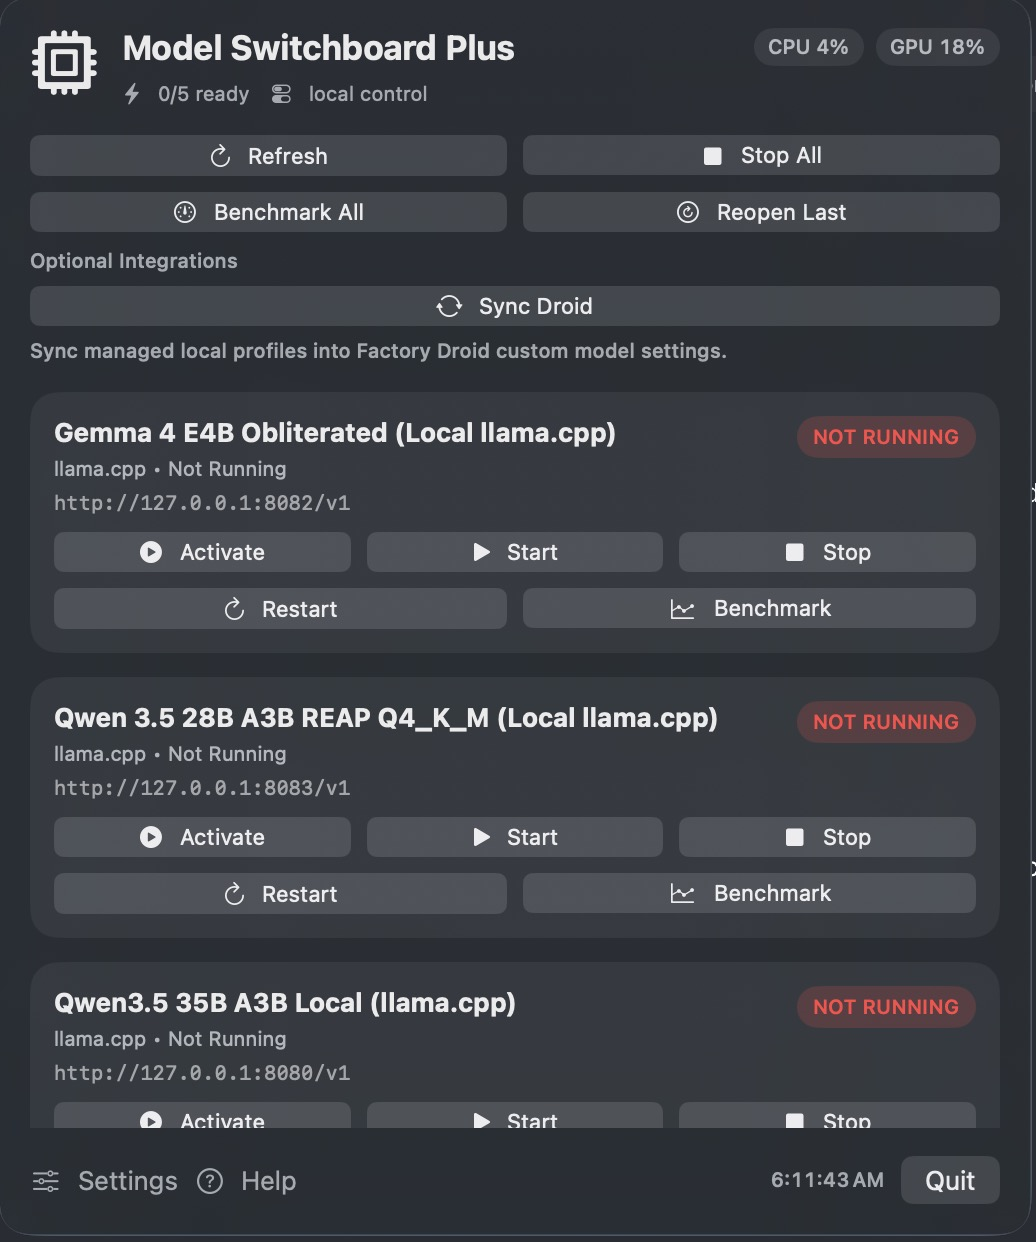
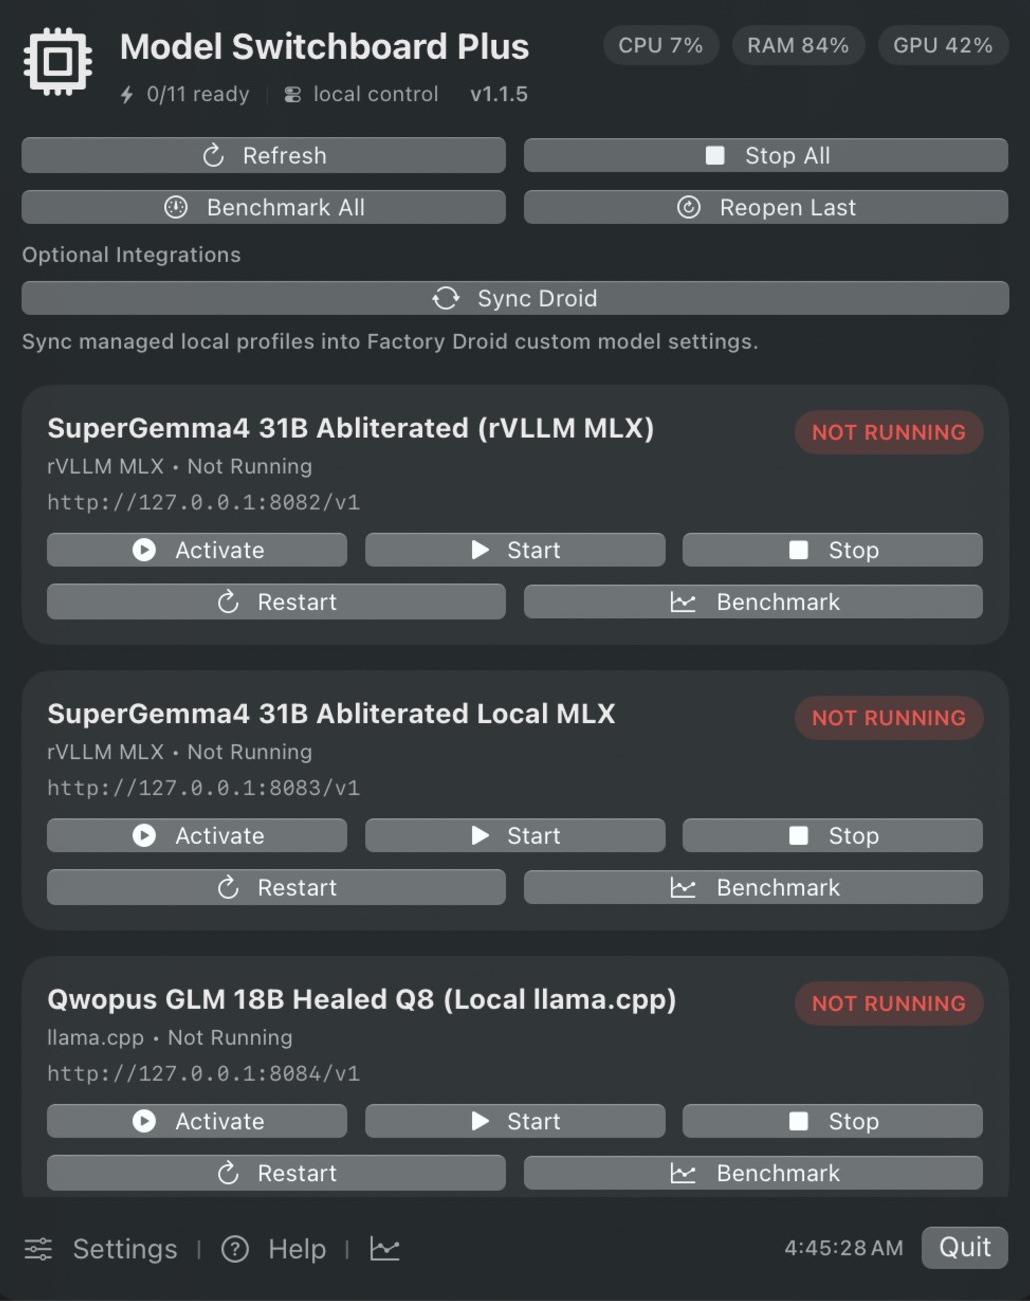
docs(readme): redesign hero, gallery, and add terminal demo
- Centered hero with 3 CTA buttons (Download / Star / Docs) and 6-badge trust strip
- Side-by-side terminal-demo.gif and Plus screenshot for top-of-fold proof
- 3-up feature tiles (one-click activate / health checks / 35+ runtimes)
- 3-up product gallery (Base / Plus / Benchmarks) with portrait-matched cropping
- Collapsed AI setup prompt into <details>
- New Integrations section surfaces Raycast, SwiftBar, Sync Droid
- Linked CHANGELOG + Releases in What's new
- New assets: terminal-demo.gif (vhs), screenshot-benchmark-square.jpg, refreshed screenshot-plus.jpg
- Recording sources under Scripts/vhs/

diff --git a/README.md b/README.md
@@ -5,13 +5,38 @@
   <img src="Resources/Brand/title-light.svg" alt="Model Switchboard" width="560">
 </picture>
 
-***Flip between local LLM runtimes from your menu bar.***
-**One click to activate. One click to stop everything.**
+<p>
+  <em><strong>Flip between local LLM runtimes from your menu bar.</strong></em><br/>
+  <strong>One click to activate. One click to stop everything.</strong>
+</p>
 
-[![Version](https://img.shields.io/badge/version-1.1.5-blue?style=for-the-badge)](VERSION)
-[![License: MIT](https://img.shields.io/badge/license-MIT-green?style=for-the-badge)](LICENSE)
-[![Platform](https://img.shields.io/badge/macOS-14%2B-lightgrey?style=for-the-badge&logo=apple&logoColor=white)](#requirements)
-[![Swift](https://img.shields.io/badge/swift-6.0-orange?style=for-the-badge&logo=swift&logoColor=white)](Package.swift)
+<p>
+  <a href="https://github.com/AdityaVG13/Model-Switchboard/releases/latest"><img alt="Download DMG" src="https://img.shields.io/badge/Download-DMG-007AFF?style=for-the-badge&logo=apple&logoColor=white"></a>
+  <a href="https://github.com/AdityaVG13/Model-Switchboard/stargazers"><img alt="Star on GitHub" src="https://img.shields.io/github/stars/AdityaVG13/Model-Switchboard?style=for-the-badge&logo=github&label=Star&color=181717"></a>
+  <a href="SETUP.md"><img alt="Docs" src="https://img.shields.io/badge/Docs-SETUP.md-1F6FEB?style=for-the-badge&logo=readthedocs&logoColor=white"></a>
+</p>
+
+<p>
+  <a href="VERSION"><img alt="Version" src="https://img.shields.io/badge/version-1.1.5-blue?style=flat-square"></a>
+  <a href="LICENSE"><img alt="License: MIT" src="https://img.shields.io/badge/license-MIT-green?style=flat-square"></a>
+  <a href="#requirements"><img alt="Platform" src="https://img.shields.io/badge/macOS-14%2B-lightgrey?style=flat-square&logo=apple&logoColor=white"></a>
+  <a href="Package.swift"><img alt="Swift" src="https://img.shields.io/badge/swift-6.0-orange?style=flat-square&logo=swift&logoColor=white"></a>
+  <a href="https://github.com/AdityaVG13/Model-Switchboard/actions/workflows/release.yml"><img alt="Release" src="https://img.shields.io/github/actions/workflow/status/AdityaVG13/Model-Switchboard/release.yml?branch=main&style=flat-square&logo=githubactions&logoColor=white&label=release"></a>
+  <a href="CHANGELOG.md"><img alt="Changelog" src="https://img.shields.io/badge/changelog-keep--a--changelog-EF6155?style=flat-square"></a>
+</p>
+
+<br/>
+
+<table>
+<tr>
+<td align="center" width="58%" valign="middle">
+  <img src="Resources/Brand/terminal-demo.gif" alt="Terminal demo: model-switchboardctl summary, inventory, and profile directory" width="560"/>
+</td>
+<td align="center" width="42%" valign="middle">
+  <img src="Resources/Brand/screenshot-plus.jpg" alt="Model Switchboard Plus menu bar panel showing CPU/RAM/GPU stats, optional integrations, and profile cards with Activate / Start / Stop / Restart / Benchmark actions" width="360"/>
+</td>
+</tr>
+</table>
 
 </div>
 
@@ -23,63 +48,69 @@ Running local models on an Apple Silicon Mac usually means a sprawl of terminal 
 
 ---
 
-<img align="right" width="420" src="Resources/Brand/screenshot-base.jpg" alt="Base edition panel">
-
-### One click. One model running.
-
-**`Activate` stops every other profile and brings the chosen one up.** No more forgetting to `kill -9` a 24 GB process before starting the next one.
-
-Profiles are marked **ready** *only* after a real health check passes. By default, the app checks `/v1/models`, and you can swap in a custom HTTP probe. If it says green, it means green.
-
-Built with **SwiftUI** and `MenuBarExtra`. No Electron, no bundled inference engine, no resident background worker pegging your CPU.
-
-<br clear="right">
-
----
-
-<img align="left" width="420" src="Resources/Brand/screenshot-plus.jpg" alt="Plus edition with utilization and Sync Droid">
-
-### Plus adds the numbers.
-
-**CPU, RAM, and GPU utilization** live in the header, so you know what your machine is doing *without* dropping into Activity Monitor.
-
-**`Benchmark All`** runs the fleet. **`Reopen Last`** jumps straight back to what you had up. **`Sync Droid`** pushes your managed profiles into Factory Droid's custom-model settings, so the model you just activated is the one Droid uses. It is the first of several planned sync adapters ([see contributing](#contributing)).
-
-<br clear="left">
+<table>
+<tr>
+<td align="center" width="33%" valign="top">
+<h3>One-click activate</h3>
+<p>Pick a profile. Click <strong>Activate</strong>. Every other model stops. The chosen runtime comes up at an OpenAI-compatible endpoint, and the menu bar reflects the state in real time.</p>
+</td>
+<td align="center" width="33%" valign="top">
+<h3>Health checks, not vibes</h3>
+<p>Profiles go green <strong>only</strong> after a real <code>/v1/models</code> probe (or your custom HTTP check) passes. If a managed runtime crashes overnight, the controller restarts it automatically.</p>
+</td>
+<td align="center" width="33%" valign="top">
+<h3>35+ runtimes, one contract</h3>
+<p>Native adapters for <code>llama.cpp</code>, MLX, vLLM-MLX, rVLLM MLX, Ollama, vLLM, SGLang, TGI. Named launchers and external endpoints round out the rest. See <a href="Controller/RUNTIME_SUPPORT.md">RUNTIME_SUPPORT</a>.</p>
+</td>
+</tr>
+</table>
 
 ---
 
-<img align="right" width="420" src="Resources/Brand/screenshot-benchmark.jpg" alt="In-app Benchmarks panel">
+## What's in the panel
 
-### Benchmarks in the app, not a spreadsheet.
+**`Activate` stops every other profile and brings the chosen one up.** No more forgetting to `kill -9` a 24 GB process before starting the next one. Profiles are marked **ready** *only* after a real `/v1/models` probe (or your custom HTTP check) passes — *if it says green, it means green.* Built with **SwiftUI** and `MenuBarExtra`: no Electron, no bundled inference engine, no resident background worker pegging your CPU.
 
-The inline panel reads the latest run and shows **TTFT**, **Decode**, **E2E**, and **RSS** per profile in one place.
-
-Tap **`Export CSV`** and you have a portable report. Every run lands as both JSON and Markdown under `Controller/benchmark-results/`, so it is easy to diff, commit, or feed into another tool.
-
-<br clear="right">
+<table>
+<tr>
+<td align="center" width="33%" valign="top">
+  <img src="Resources/Brand/screenshot-base.jpg" alt="Base edition panel: profile fleet with Activate, Start, Stop, Restart actions" width="320"/>
+  <p><strong>Base</strong><br/>Profile fleet with <code>Activate</code> / <code>Start</code> / <code>Stop</code> / <code>Restart</code>.</p>
+</td>
+<td align="center" width="33%" valign="top">
+  <img src="Resources/Brand/screenshot-plus.jpg" alt="Plus edition with CPU/RAM/GPU header, Benchmark All, Reopen Last, Sync Droid" width="320"/>
+  <p><strong>Plus</strong><br/>Adds live CPU / RAM / GPU, <code>Benchmark All</code>, <code>Reopen Last</code>, <code>Sync Droid</code>.</p>
+</td>
+<td align="center" width="33%" valign="top">
+  <img src="Resources/Brand/screenshot-benchmark-square.jpg" alt="In-app Benchmarks panel showing TTFT, Decode, E2E, RSS per profile" width="320"/>
+  <p><strong>Benchmarks panel</strong><br/>TTFT, Decode, E2E, RSS per profile. <code>Export CSV</code> and every run lands as JSON + Markdown under <code>Controller/benchmark-results/</code>.</p>
+</td>
+</tr>
+</table>
 
 ---
 
-## Runtime and provider support
+## Runtimes supported
 
 Model Switchboard is runtime-oriented, not model-family-oriented: if your runtime can expose an OpenAI-compatible endpoint, the app can track it, health-check it, switch it, and tag it. That means Qwen, Gemma, Llama, Mistral, GLM, DeepSeek, and other local models are supported through whichever backend serves them.
 
 | Support level | Runtimes and providers |
 |---|---|
-| Native command adapters | `llama.cpp`, MLX / `mlx_lm.server`, `rVLLM MLX`, `vLLM-MLX`, `Ollama`, `vLLM`, `SGLang`, Hugging Face `TGI`, `llama-cpp-python` |
-| Named launcher profiles | `DDTree MLX`, `TurboQuant`, `oMLX`, `Mistral.rs`, `MLC-LLM`, `LightLLM`, `FastChat`, `OpenLLM`, `Nexa`, `ExLlamaV2`, `Aphrodite`, `LMDeploy`, `MLX Omni Server`, `MLX OpenAI Server`, `MLX Serve`, `text-generation-webui`, `KoboldCpp`, `TabbyAPI`, `llamafile` |
-| External endpoints | `LM Studio`, `Jan`, `LocalAI`, `LiteLLM`, `ollmlx`, Triton-backed OpenAI-compatible servers, or any local/custom OpenAI-compatible base URL |
+| **Native command adapters** | `llama.cpp`, MLX / `mlx_lm.server`, `rVLLM MLX`, `vLLM-MLX`, `Ollama`, `vLLM`, `SGLang`, Hugging Face `TGI`, `llama-cpp-python` |
+| **Named launcher profiles** | `DDTree MLX`, `TurboQuant`, `oMLX`, `Mistral.rs`, `MLC-LLM`, `LightLLM`, `FastChat`, `OpenLLM`, `Nexa`, `ExLlamaV2`, `Aphrodite`, `LMDeploy`, `MLX Omni Server`, `MLX OpenAI Server`, `MLX Serve`, `text-generation-webui`, `KoboldCpp`, `TabbyAPI`, `llamafile` |
+| **External endpoints** | `LM Studio`, `Jan`, `LocalAI`, `LiteLLM`, `ollmlx`, Triton-backed OpenAI-compatible servers, or any local/custom OpenAI-compatible base URL |
 
 Use `RUNTIME_TAGS` for model-level traits such as `coding`, `q8`, `long-context`, `vision`, or `agentic`. The full canonical runtime table lives in [Controller/RUNTIME_SUPPORT.md](Controller/RUNTIME_SUPPORT.md).
 
 ---
 
-## Base vs Plus
+## Base or Plus
 
 *Same codebase, two apps.* Pick at install time. They live side by side as **Model Switchboard.app** and **Model Switchboard Plus.app** under `~/Applications/`.
 
 The controller contract, profile discovery, runtime tags, and launcher support are shared by both editions. Plus adds the extra operator UI: live utilization badges, benchmarks, reopen-last, and integrations.
+
+<div align="center">
 
 | | Base | Plus |
 |---|:---:|:---:|
@@ -87,23 +118,25 @@ The controller contract, profile discovery, runtime tags, and launcher support a
 | `Activate` / `Start` / `Stop` / `Restart` | ✓ | ✓ |
 | `Refresh` / `Stop All` | ✓ | ✓ |
 | `Launch At Login` + attached Settings / Help | ✓ | ✓ |
-| CPU / RAM / GPU utilization badges | - | ✓ |
-| `Benchmark All` + per-profile `Benchmark` | - | ✓ |
-| In-app Benchmarks panel + CSV export | - | ✓ |
-| `Reopen Last` | - | ✓ |
-| `Sync Droid` and future integration adapters | - | ✓ |
+| CPU / RAM / GPU utilization badges | — | ✓ |
+| `Benchmark All` + per-profile `Benchmark` | — | ✓ |
+| In-app Benchmarks panel + CSV export | — | ✓ |
+| `Reopen Last` | — | ✓ |
+| `Sync Droid` and future integration adapters | — | ✓ |
+
+</div>
 
 ---
 
 ## Requirements
 
 - **macOS 14** (Sonoma) or later
-- **Apple Silicon recommended**. Intel Macs run the app fine, but *MLX models require Apple Silicon*
+- **Apple Silicon recommended.** Intel Macs run the app fine, but *MLX runtimes require Apple Silicon*
 - A running **controller** that exposes the [controller contract](SETUP.md#controller-api-contract). This repo ships a reference controller under `Controller/`
 
 ---
 
-## Install
+## Download
 
 **Signed DMG (recommended).** Grab the latest from **[Releases](https://github.com/AdityaVG13/Model-Switchboard/releases/latest)**:
 
@@ -111,14 +144,6 @@ The controller contract, profile discovery, runtime tags, and launcher support a
 - `Model-Switchboard-Plus-<version>.dmg` (Plus)
 
 Open, drag to `Applications`, launch.
-
-Maintainers can cut the next release with:
-
-```bash
-python3 Scripts/bump-version.py patch
-```
-
-Push that version-bump commit to `main` and GitHub Actions will build, notarize, and publish the release automatically.
 
 **From source.**
 
@@ -133,38 +158,7 @@ The installer places a fresh build under `~/Applications/`, registers it with La
 
 ---
 
-## Let your AI set it up
-
-If you already downloaded the app and just want the controller and profiles wired up, give your favorite AI this prompt:
-
-```text
-I already downloaded Model Switchboard on my Mac.
-
-Set up the reference controller for me, create working model profiles for the runtimes I actually have installed, and make the configuration portable instead of hardcoding your own assumptions.
-
-Rules:
-- This is macOS-only, and that is intentional.
-- Do not hardcode Homebrew paths, repo-local build paths, or personal directories unless you first verify they exist on this machine.
-- Prefer profile-driven config:
-  - `MODEL_PATH` or `MODEL_FILE` with `MODEL_ROOT` for llama.cpp
-  - `MODEL_DIR` or `MODEL_REPO` for MLX
-  - `SERVER_BIN` when a runtime binary is not already on PATH
-  - A named `RUNTIME` plus `START_COMMAND` or `SERVER_BIN` for launchers without a native adapter yet
-- Use the controller contract and profile format documented in this repo's `SETUP.md`.
-- Put profiles in the controller's `model-profiles` directory.
-- Verify that each profile can be started, health-checked, and stopped cleanly.
-- If something is missing, inspect the machine and ask me only the minimum necessary question.
-
-End state:
-- Model Switchboard opens with valid profiles visible
-- `Activate` works
-- health checks go green only when the endpoint is actually ready
-- nothing is tied to one specific Mac beyond what is truly installed here
-```
-
----
-
-## First run
+## Quickstart
 
 *Model Switchboard is the control surface. It does not run models itself.* You need a controller that knows how to launch and health-check models.
 
@@ -173,6 +167,8 @@ End state:
 ```bash
 ./Controller/install-model-switchboard-controller.sh
 ```
+
+The controller exposes its API at `http://127.0.0.1:8877` under a per-user LaunchAgent.
 
 **2. Drop a profile manifest** into the controller's `model-profiles/` folder *(the exact path is shown in `Settings`).* If you run the reference controller in this repo, that is `Controller/model-profiles/`; if you keep a dedicated controller root, it is `<controller-root>/model-profiles/`. A minimal `llama.cpp` example:
 
@@ -191,7 +187,40 @@ Every profile must resolve to a unique endpoint. Reusing the same `HOST:PORT` or
 
 > Using your own runtime or launcher? Any OpenAI-compatible endpoint works. The controller has adapters and tags for MLX, Ollama, vLLM, SGLang, TGI, llama-cpp-python, rVLLM MLX, vLLM-MLX, DDTree MLX, TurboQuant, Mistral.rs, MLC-LLM, LightLLM, FastChat, OpenLLM, Nexa, ExLlamaV2, Aphrodite, LMDeploy, LiteLLM, external endpoints, and generic binaries. See [runtime support](Controller/RUNTIME_SUPPORT.md).
 
-## Status labels
+<details>
+<summary><strong>I already downloaded the app — set up the controller for me</strong></summary>
+
+<br/>
+
+Paste this prompt into your favorite AI agent to wire the controller up against the runtimes you actually have installed:
+
+```text
+I already downloaded Model Switchboard on my Mac.
+Set up the reference controller for me, create working model profiles for the runtimes I actually have installed, and make the configuration portable instead of hardcoding your own assumptions.
+Rules:
+- This is macOS-only, and that is intentional.
+- Do not hardcode Homebrew paths, repo-local build paths, or personal directories unless you first verify they exist on this machine.
+- Prefer profile-driven config:
+  - `MODEL_PATH` or `MODEL_FILE` with `MODEL_ROOT` for llama.cpp
+  - `MODEL_DIR` or `MODEL_REPO` for MLX
+  - `SERVER_BIN` when a runtime binary is not already on PATH
+  - A named `RUNTIME` plus `START_COMMAND` or `SERVER_BIN` for launchers without a native adapter yet
+- Use the controller contract and profile format documented in this repo's `SETUP.md`.
+- Put profiles in the controller's `model-profiles` directory.
+- Verify that each profile can be started, health-checked, and stopped cleanly.
+- If something is missing, inspect the machine and ask me only the minimum necessary question.
+End state:
+- Model Switchboard opens with valid profiles visible
+- `Activate` works
+- health checks go green only when the endpoint is actually ready
+- nothing is tied to one specific Mac beyond what is truly installed here
+```
+
+</details>
+
+---
+
+## Troubleshooting
 
 If something looks off, these labels tell you what the app is seeing right now:
 
@@ -207,13 +236,27 @@ If something looks off, these labels tell you what the app is seeing right now:
 
 ---
 
-## Documentation
+## What's new
+
+See **[CHANGELOG.md](CHANGELOG.md)** for release-by-release detail and **[Releases](https://github.com/AdityaVG13/Model-Switchboard/releases)** for signed DMG downloads. Current version: **1.1.5**.
+
+---
+
+## Integrations
+
+- **Raycast** — extension scripts under [`Integrations/Raycast/`](Integrations/Raycast/) call the same controller API the menu bar uses.
+- **SwiftBar** — drop-in plugin at [`Controller/swiftbar/local-models.15s.sh`](Controller/swiftbar/local-models.15s.sh) renders the same status, start, stop, and restart actions in any SwiftBar-friendly menu.
+- **Factory Droid** — `Sync Droid` (Plus only) pushes managed profiles into Droid's custom-model settings. First of several planned sync adapters.
+
+---
+
+## Deep docs
 
 All the deeper material lives in one place so this README stays skimmable:
 
-> **[SETUP.md](SETUP.md)**: profile formats, supported runtimes, health checks, controller API contract, build-from-source flow, release pipeline, Raycast power-user notes, troubleshooting, and known limitations.
-
-> **[CHANGELOG.md](CHANGELOG.md)**: release-by-release changes and distribution hardening notes.
+> **[SETUP.md](SETUP.md)** — profile formats, supported runtimes, health checks, controller API contract, build-from-source flow, release pipeline, Raycast power-user notes, troubleshooting, and known limitations.
+> **[Controller/RUNTIME_SUPPORT.md](Controller/RUNTIME_SUPPORT.md)** — canonical runtime table, launch modes, profile templates, readiness modes.
+> **[CHANGELOG.md](CHANGELOG.md)** — release-by-release changes and distribution hardening notes.
 
 *The app's **Help** button opens the same doc.*
 
@@ -228,18 +271,9 @@ PRs, issues, and profile recipes are welcome. A few ground rules that keep the p
 - External tools stay **optional integrations**, never required features.
 - Ship a runnable example with any new adapter.
 
-### Especially wanted: more sync adapters
+**`Sync Droid` is currently Factory-Droid-specific** because that's the agent I run. The integration slot is generic, but the adapter is not. **PRs that add sync adapters for other local-model terminals or agentic tools are very welcome**, including but not limited to **Cursor**, **Windsurf**, **OpenAI Codex CLI**, **Zed**, **Continue**, **Aider**, **LM Studio**, **Ollama chat frontends**, or any **OpenAI-compatible consumer**.
 
-**`Sync Droid` is currently Factory-Droid-specific** because that's the agent I run. The integration slot is generic, but the adapter is not. **PRs that add sync adapters for other local-model terminals or agentic tools are very welcome**, including but not limited to:
-
-- **Cursor** / **Windsurf**: push the active profile into the OpenAI-compatible provider settings
-- **OpenAI Codex CLI**: update `~/.codex/config.toml` model entry
-- **Zed**: update `~/.config/zed/settings.json` assistant provider
-- **Continue** (`~/.continue/config.json`)
-- **Aider**: point at the active endpoint
-- **LM Studio** / **Ollama chat frontends** / any **OpenAI-compatible consumer**
-
-If you build one, follow the shape of `Controller/sync-droid-local-models.py` and register it under `Controller/integrations/` so it shows up in the Plus menu automatically.
+If you build one, follow the shape of `Controller/sync-droid-local-models.py` and register it under `Controller/integrations/` so it shows up in the Plus menu automatically. Full contributor guide and the release pipeline live in [SETUP.md](SETUP.md).
 
 Before opening a PR:
 
@@ -260,13 +294,12 @@ python3 Scripts/bump-version.py patch   # or minor / major / x.y.z
 
 **[MIT](LICENSE)** © 2026 AdityaVG13
 
----
-
 <div align="center">
 
-### Support the project
+<br/>
 
 *Model Switchboard is a solo side project, open-sourced for free.*
+
 If it saves you time flipping between local models, a small tip helps cover the API and tooling bills that keep it moving forward.
 
 <a href="https://ko-fi.com/AdityaVG13">
